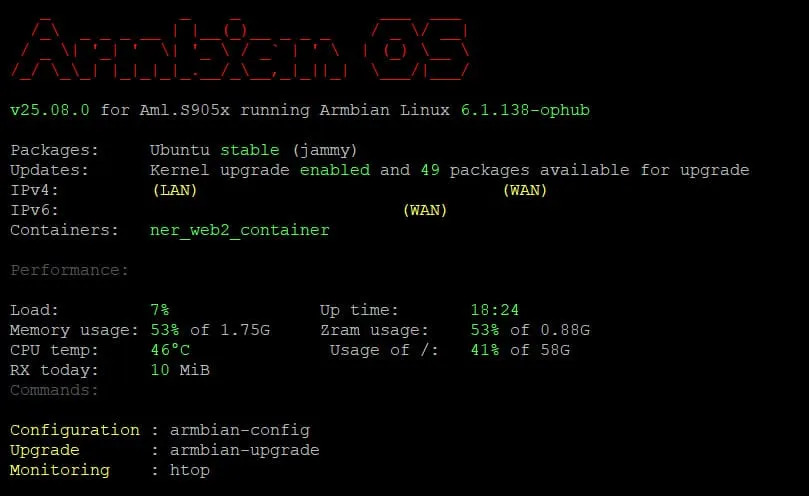
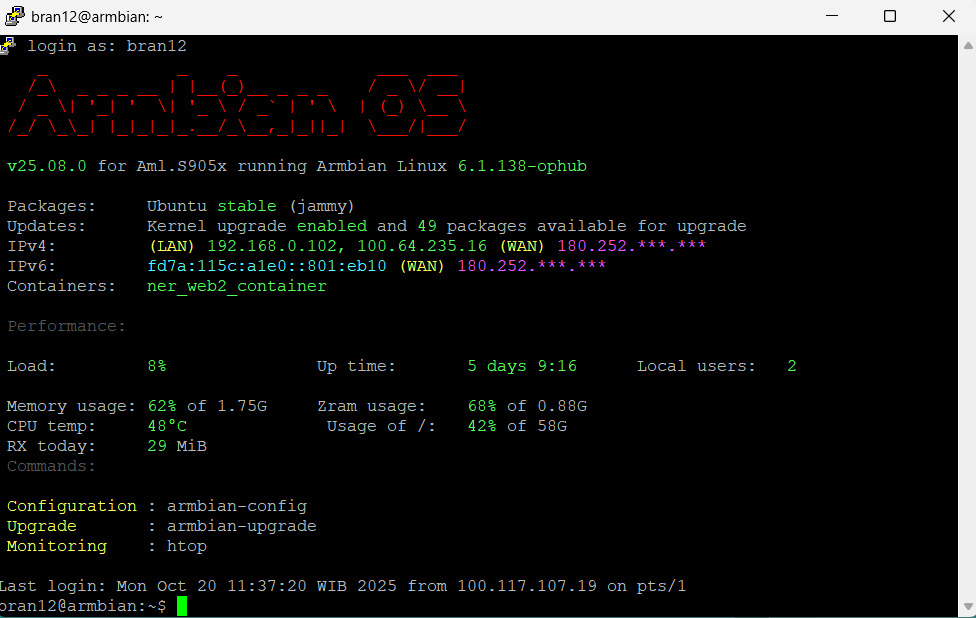
update new details project

diff --git a/projectserver.html b/projectserver.html
@@ -1069,7 +1069,57 @@
           "Configure Nginx reverse proxy in aaPanel.",
           "Domain forwards traffic to the application inside Docker.",
         ]
-      }
+      },
+      "own-server": {
+        title: "Build Your Own Server With STB HG680P",
+        lead: "I built a home server from an HG680P STB. I started by preparing boot media containing Armbian Jammy for the Amlogic chipset (the .img.gz file from the OPHUB release), then flashed it to an SD card using Balena Etcher/Rufus. After the STB powered on and connected to the LAN, I accessed it via PuTTY (STB's local IP), logged in as root/1234, performed basic configurations, and then installed aaPanel from the official script. In aaPanel, I performed initial configuration (menu bt options 5, 6, 8, 28; disabling SSL on 27), restarted the panel, and downloaded the required components from the App Store. Result, The HG680P STB successfully transformed into a server PC.",
+        cover: "assets/server/card3/img1.jpeg",
+        images: [
+          "assets/server/card3/img1.jpeg",
+          "assets/server/card3/img2.jpeg",
+          "assets/server/card3/img3.jpeg",
+          "assets/server/card3/img4.jpeg",
+          "assets/server/card3/img5.jpeg",
+          "assets/server/card3/img6.jpeg",
+          "assets/server/card3/img7.jpeg",
+          "assets/server/card3/img8.jpeg",
+        ],
+        demo: "#",
+        code: "#",
+        medium: "https://medium.com/@gibranfktian/deploy-a-website-using-docker-uvicorn-and-reverse-proxy-with-aapanel-45fa99bced56",
+        technologies: ["aaPanel", "Armbian OS", "STB HG680P", "Card Reader", "SD Card", " Balena Etcher", "Putty"],
+        features: [
+          "Hardware Repurposing",
+          "Complete Armbian OS Installation & Flashing Process",
+          "Remote Headless Server Access via SSH",
+          "aaPanel Web Control Panel Installation & Setup",
+          "Security & Configuration Optimization",
+          "Web Hosting Ready Platform",
+        ]
+      },
+      "prtg-installation": {
+        title: "Installation of PRTG Sensors on 72 Servers",
+        lead: "I have installed the PRTG Network Monitor sensor on 72 virtual machines to perform comprehensive infrastructure monitoring. I downloaded the PRTG installer from the official Paessler website and installed it on each virtual machine. After installation, I configured the admin account and set network parameters, including monitoring intervals. I added devices by entering their IP addresses, allowing PRTG to scan and detect services such as bandwidth and uptime, then selected relevant sensors such as SNMP. I configured the SNMP agent by setting AgentAddress for unique device identification and the rocommunity string for read-only access. The dashboard displays real-time graphs and reports. Additionally, I implemented security header hardening on the Apache server by enabling mod_headers, creating a custom configuration file with security headers (X-Frame-Options, X-Content-Type-Options, Referrer-Policy, Permissions-Policy, and HSTS), and then activating the new configuration.",
+        cover: "assets/server/card4/img2.jpeg",
+        images: [
+          "assets/server/card4/img1.jpeg",
+          "assets/server/card4/img2.jpeg",
+          "assets/server/card4/img3.jpeg",
+          "assets/server/card4/img4.jpeg",
+        ],
+        demo: "#",
+        code: "#",
+        medium: "https://medium.com/@gibranfktian/deploy-a-website-using-docker-uvicorn-and-reverse-proxy-with-aapanel-45fa99bced56",
+        technologies: ["PRTG Network Monitor", "SNMP", "Apache", "Linux", "HTTP"],
+        features: [
+          "Real-time Infrastructure Monitoring & Visualization",
+          "Large-Scale Multi-Device Support",
+          "Automated Network Discovery & Scanning",
+          "SNMP Protocol Integration & Configuration",
+          "Intelligent Alert & Notification System",
+          "Apache Security Headers Hardening",
+        ]
+      },
     };
 
     /* ---- helpers ---- */

diff --git a/scriptserver.js b/scriptserver.js
@@ -13,7 +13,7 @@ const PROJECTS = [
   {
     id: "deploy-Docker",
     title: "Deploy a website using Docker, Uvicorn and Reverse Proxy with AaPanel.",
-    desc: "Guide to deploying a website with Docker, Uvicorn, and Reverse Proxy using aaPanel.",
+    desc: "Guide to deploying a website with Docker containers, Uvicorn ASGI server, and Reverse Proxy using aaPanel",
     tech: [],
     cover: "assets/server/card2/img1.jpeg",
     demo: "",
@@ -23,20 +23,19 @@ const PROJECTS = [
   {
     id: "own-server",
     title: "Build Your Own Server With STB HG680P",
-    desc: "A personal portfolio website showcasing my projects and skills.",
+    desc: "Guide to transforming an STB HG680P TV Set Top Box into a fully functional home server using Armbian OS and aaPanel",
     tech: [],
-    cover: "",
-    demo: "#",
-    code: "#",
+    cover: "assets/server/card3/img1.jpeg",
+    demo: "",
+    code: "",
     medium: "https://medium.com/@gibranfktian/build-your-own-server-with-stb-hg680p-8eb5d93df7f1",
   },
-  // Coming soon
   {
-    id: "",
-    title: "Cooming Soon Project",
-    desc: "Upcoming projects for web applications, Stay tuned.",
+    id: "prtg-installation",
+    title: "Installation of PRTG Sensors on 72 Servers",
+    desc: "Installing and configuring PRTG Network Monitor on the server, including SNMP agent configuration on each VM.",
     tech: [],
-    cover: "assets/resto-cover.png",
+    cover: "assets/server/card4/img2.jpeg",
     demo: "#",
     code: "#",
     medium: "#",
